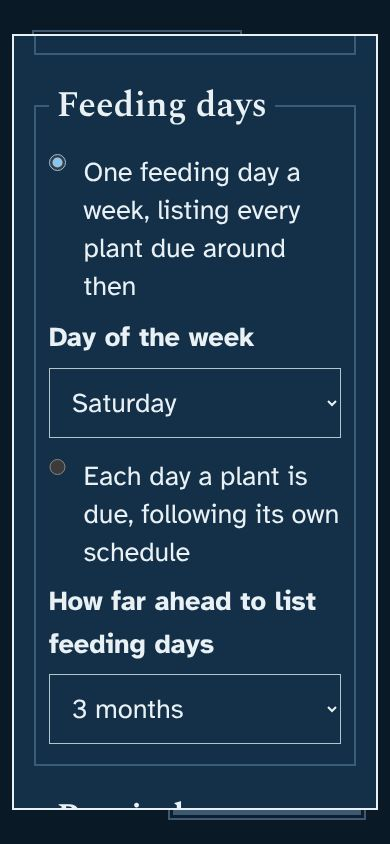
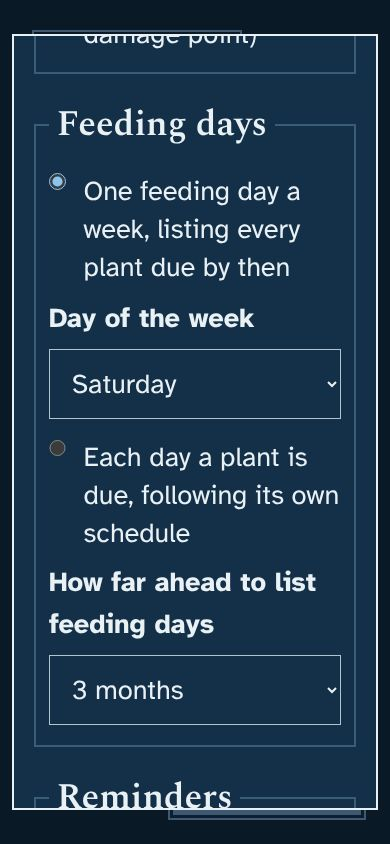
Calendar: never feed early, Tailscale Funnel steps
Ethan's answers on #13: a plant moves to the first feeding day on or after its due
date; Tailscale Funnel for the internet address. Funnel steps (port 8443, /cal only)
in the window and the README; the subscription route accepts a kept /cal prefix.

Claude-Session: https://claude.ai/code/session_01HZWbYYYdhbgvDC6a8qvXWb

diff --git a/app/static/app.js b/app/static/app.js
@@ -3759,7 +3759,7 @@ function icsPaintLink() {
   const l = document.getElementById('ics-link'); if (l) l.value = icsLink();
   const w = document.getElementById('ics-linkwhere');
   if (w) w.textContent = ICS.links && ICS.links.public ? 'This link uses the internet address below, so calendar services such as Google and Outlook.com can reach it.'
-    : 'This link only works on your home network until the internet address below is filled in. Google Calendar, Outlook.com and iCloud need that address.';
+    : 'This link only works on your home network until the internet address below is filled in. Google Calendar, Outlook.com and iCloud need that address: see "Get an internet address with Tailscale Funnel" below.';
 }
 const ck = (k) => ICS.o[k] ? raw('checked') : '';
 function icsForm() {
@@ -3772,7 +3772,7 @@ function icsForm() {
       <label class="chk"><input type="checkbox" data-act="icsopt" name="close" ${ck('close')}> Include close calls (a night within a few degrees of a plant's damage point)</label>
     </fieldset>
     <fieldset><legend>Feeding days</legend>
-      <label class="chk"><input type="radio" data-act="icsopt" name="weekly" value="1" ${o.weekly ? raw('checked') : ''}> One feeding day a week, listing every plant due around then</label>
+      <label class="chk"><input type="radio" data-act="icsopt" name="weekly" value="1" ${o.weekly ? raw('checked') : ''}> One feeding day a week, listing every plant due by then</label>
       <label class="f ics-sub">Day of the week<select data-act="icsopt" name="day">${ICS.days.map((d, i) => html`<option value="${i}" ${o.day === i ? raw('selected') : ''}>${d}</option>`)}</select></label>
       <label class="chk"><input type="radio" data-act="icsopt" name="weekly" value="0" ${o.weekly ? '' : raw('checked')}> Each day a plant is due, following its own schedule</label>
       <label class="f">How far ahead to list feeding days<select data-act="icsopt" name="months">
@@ -3793,8 +3793,24 @@ function icsForm() {
       <p class="hint" id="ics-linkwhere"></p>
       <div class="row"><button class="btn" type="button" data-act="icscopy">Copy calendar link</button><button class="btn ghost" type="button" data-act="icsnewlink">Make a new link</button></div>
       <p class="hint">Anyone with the link can see your feeding days and cold nights (not the rest of Plant record), so keep it private. Make a new link stops the old one working.</p>
-      <label class="f">Internet address of this PC<input type="url" id="ics-pub" value="${o.public_base}" placeholder="https://my-pc.example.ts.net" spellcheck="false" autocomplete="off"></label>
+      <label class="f">Internet address of this PC<input type="url" id="ics-pub" value="${o.public_base}" placeholder="https://your-pc.tail1234.ts.net:8443" spellcheck="false" autocomplete="off"></label>
       <p><button class="btn small ghost" type="button" data-act="icspub">Save address</button></p>
+      <details class="ics-how"><summary>Get an internet address with Tailscale Funnel</summary>
+        <p>Funnel lets the internet reach the calendar link only, not the rest of Plant record. It uses port 8443, so anything you already share in your tailnet with Tailscale Serve stays private.</p>
+        <ol><li>Open a terminal on the PC that runs Plant record and turn on Funnel for the calendar. The command is the same in Windows cmd.exe, PowerShell and bash:
+            <pre class="ics-cmd">tailscale funnel --bg --https=8443 --set-path=/cal http://127.0.0.1:8080/cal</pre>
+            If Tailscale says Funnel or HTTPS is not turned on for your tailnet, open the link it shows, turn it on, and run the command again.
+            If Windows says tailscale is not recognized, use the full path. In cmd.exe:
+            <pre class="ics-cmd">"C:\\Program Files\\Tailscale\\tailscale.exe" funnel --bg --https=8443 --set-path=/cal http://127.0.0.1:8080/cal</pre>
+            In PowerShell:
+            <pre class="ics-cmd">&amp; "C:\\Program Files\\Tailscale\\tailscale.exe" funnel --bg --https=8443 --set-path=/cal http://127.0.0.1:8080/cal</pre></li>
+          <li>See the address it made:
+            <pre class="ics-cmd">tailscale funnel status</pre>
+            It looks like https://your-pc.tail1234.ts.net:8443. Type that into "Internet address of this PC" above and press Save address.</li>
+          <li>Check it: on your phone, turn Wi-Fi off and open the calendar link in the browser. It should show or download a calendar file.</li>
+          <li>Subscribe with that link in each calendar (steps below).</li></ol>
+        <p>Funnel keeps running after a restart. To turn it off:</p>
+        <pre class="ics-cmd">tailscale funnel --https=8443 --set-path=/cal off</pre></details>
       <details class="ics-how"><summary>How to subscribe in each calendar</summary>
         <ul><li><b>Google Calendar</b> (also shows in Samsung Calendar when your Google account syncs to it): on a computer, open calendar.google.com, press the plus next to "Other calendars", choose From URL, paste the link and press Add calendar.</li>
           <li><b>Apple Calendar on iPhone:</b> Settings, Apps, Calendar, Calendar Accounts, Add Account, Other, Add Subscribed Calendar, then paste the link.</li>

diff --git a/app/static/style.css b/app/static/style.css
@@ -900,3 +900,6 @@ html[data-narrow="1"] dialog.ics-dlg fieldset{padding:.4rem .5rem}
 html[data-narrow="1"] dialog.ics-dlg .ics-sub,html[data-narrow="1"] dialog.ics-dlg .ics-rem .f{margin-left:0;max-width:none}
 html[data-narrow="1"] .ics-prev{padding:.4rem .5rem;border-width:1px}
 html[data-narrow="1"] .ics-list li{grid-template-columns:minmax(0,1fr)}
+.ics-cmd{font-family:ui-monospace,Consolas,monospace;font-size:.9em;background:var(--paper);border:1px solid var(--line);padding:.5rem .7rem;margin:.4rem 0 .6rem;white-space:pre-wrap;overflow-wrap:anywhere;user-select:all}
+.ics-how ol li{margin:.5rem 0}
+html[data-narrow="1"] .ics-how ol{padding-left:1.4rem} html[data-narrow="1"] .ics-cmd{padding:.4rem .5rem}

diff --git a/app/server.py b/app/server.py
@@ -3252,17 +3252,16 @@ def ics_season_start(r, d):
 def ics_feed_days(c, today, end, weekday=None):
     """Projected feeding days per plant, the same way the Fertilizer page works out "Next feeding" (nextDue() in app.js),
     then every "Feed every (days)" after that, skipping the resting months. Later dates assume each feeding is done on time.
-    With a weekday (0 = Monday), each feeding moves to the nearest feeding day of the week (never one already past), and
-    the next one is counted from that day, since that is when the plant will be fed."""
+    With a weekday (0 = Monday), each feeding moves to the first feeding day of the week on or after the day it is due
+    (never earlier: Ethan asked that a plant is never fed too early), and the next one is counted from that day, since that
+    is when the plant will be fed."""
     last = dict(c.execute('SELECT plant_code, MAX(applied_on) FROM fertilizer_log GROUP BY plant_code').fetchall())
     rows = c.execute("""SELECT code, common_name, fert_from_month, fert_to_month, fert_every_days, site FROM plants WHERE status='active'
                         AND fert_from_month IS NOT NULL AND fert_to_month IS NOT NULL AND fert_every_days IS NOT NULL ORDER BY code""").fetchall()
     first = today + timedelta(days=(weekday - today.weekday()) % 7) if weekday is not None else today
     def snap(d):
         if weekday is None: return d
-        back = d - timedelta(days=(d.weekday() - weekday) % 7)                  # the feeding day on or before d
-        s = back if (d - back).days < 4 else back + timedelta(days=7)          # the nearest one; 3.5 days either way
-        return max(s, first)
+        return max(d + timedelta(days=(weekday - d.weekday()) % 7), first)    # the feeding day on or after d
     days = {}
     for r in rows:
         every = max(1, int(r['fert_every_days']))
@@ -3294,8 +3293,8 @@ def ics_clean(o):
             if not re.match(r'^([01]\d|2[0-3]):[0-5]\d$', str(v)): abort(400, 'Reminder times look like 08:00 or 16:30')
             out[k] = str(v)
         elif k == 'public_base':
-            v = str(v or '').strip().rstrip('/')
-            if v and not re.match(r'^https?://[A-Za-z0-9.\-]+(:\d+)?(/[\w.\-/]*)?$', v): abort(400, 'The internet address should look like https://my-pc.example.ts.net')
+            v = re.sub(r'/cal$', '', str(v or '').strip().rstrip('/'))          # a pasted link with /cal on the end still works
+            if v and not re.match(r'^https?://[A-Za-z0-9.\-]+(:\d+)?(/[\w.\-/]*)?$', v): abort(400, 'The internet address should look like https://your-pc.tail1234.ts.net:8443')
             out[k] = v
     return out
 
@@ -3337,7 +3336,7 @@ def ics_events(c, o):
             title = (f'Feeding day: {n} plant{"s" if n != 1 else ""} ({names})' if weekly
                      else f'Feed {n} plant{"s" if n != 1 else ""}: {names}')
             lines = [f'{p["name"]} ({p["code"]}), every {p["every"]} days.' + (f' Last fed {p["last"]}.' if p['last'] else ' No feeding logged yet.') for p in ps]
-            desc = (('Your weekly feeding day. These plants are due around now' if weekly else 'Plants due for fertilizer on this day') + ', from Plant record.\n\n' + '\n'.join(lines) +
+            desc = (('Your weekly feeding day. These plants are due by now' if weekly else 'Plants due for fertilizer on this day') + ', from Plant record.\n\n' + '\n'.join(lines) +
                     '\n\nOpen the Fertilizer page that morning before you feed: it says "Hold off" when a cold night is coming or a plant is unwell.'
                     ' Later dates assume each feeding is done on the day shown.')
             ev.append({'kind': 'feed', 'uid': f'feed-{f["date"]}', 'date': f['date'], 'title': title, 'desc': desc,
@@ -3386,7 +3385,7 @@ def ics_body(c, o, E, base):
                     'TRANSP:TRANSPARENT', 'CATEGORIES:Plants,Feeding']
         else:
             out += ['DTSTART:' + e['start'], 'DTEND:' + e['end'], 'TRANSP:TRANSPARENT', 'CATEGORIES:Plants,Cold night']
-        out += ['SUMMARY:' + ics_text(e['title']), 'DESCRIPTION:' + ics_text(e['desc'] + '\n\n' + base + e['path']), 'URL:' + base + e['path']]
+        out += ['SUMMARY:' + ics_text(e['title']), 'DESCRIPTION:' + ics_text(e['desc'] + ('\n\n' + base + e['path'] if base else ''))] + (['URL:' + base + e['path']] if base else [])
         trig = None
         if e['kind'] == 'feed' and o['feed_remind']:
             trig = f'TRIGGER;RELATED=START:PT{fh}H{fm}M'                     # that time on the feeding day
@@ -3445,14 +3444,21 @@ def calendar_ics():
     body = ics_body(c, o, E, request.host_url.rstrip('/') + '/')
     return ics_response(body, None if request.args.get('download') == '0' else f'plant-record-calendar-{E["today"]}.ics')
 
-@app.route('/cal/<tok>.ics')
-def calendar_subscribed(tok):
-    """The subscribed calendar. No password (guard() lets /cal/ through), so the private token is the only key."""
+@app.route('/cal/<path:p>')
+def calendar_subscribed(p):
+    """The subscribed calendar. No password (guard() lets /cal/ through), so the private token is the only key.
+    Only the last part of the path counts (<token>.ics), so it works the same behind a proxy that adds or keeps a
+    /cal prefix, such as Tailscale Funnel with --set-path=/cal."""
     c = db()
-    if not hmac.compare_digest(tok.encode(), ics_token(c).encode()): abort(404)
+    name = p.rsplit('/', 1)[-1]
+    if not name.endswith('.ics') or not hmac.compare_digest(name[:-4].encode(), ics_token(c).encode()): abort(404)
     o = ics_saved(c)
     E = ics_events(c, o)
-    base = (o['public_base'] if o['public_base'] and not request.host.startswith(('127.0.0.1', 'localhost')) else request.host_url.rstrip('/')) + '/'
+    # links in the events go to the app itself, which the public address does not open (it only shares /cal/):
+    # use the address set for labels, or the one this request came in on unless that is the public one
+    pub = urlparse(o['public_base']).hostname if o['public_base'] else None
+    base = setting(c, 'base_url', '') or ('' if pub and request.host.split(':')[0] == pub else request.host_url.rstrip('/'))
+    base = base + '/' if base else ''
     return ics_response(ics_body(c, o, E, base))
 
 # ---------------------------------------------------------------- backups

diff --git a/dev/test/calendar_check.py b/dev/test/calendar_check.py
@@ -35,6 +35,10 @@ check(all(e['title'].startswith('Feeding day: ') for e in D['events'] if e['kind
 check(D['counts']['cold'] > 0, f"{D['counts']['cold']} cold nights in the forecast")
 Dd = json.loads(get('/api/calendar?weekly=0')[0])
 check(len({date.fromisoformat(e['date']).weekday() for e in Dd['events'] if e['kind'] == 'feed'}) >= 1 and any(e['title'].startswith('Feed ') for e in Dd['events']), 'weekly=0: each plant on its own due day')
+first = lambda E: {c: min(e['date'] for e in E['events'] if e['kind'] == 'feed' and c in e['plants']) for e in E['events'] if e['kind'] == 'feed' for c in e['plants']}
+fw, fd = first(D), first(Dd)
+check(all(fw[c] >= fd[c] for c in fw if c in fd), 'weekly: no plant is fed before it is due')
+check(all((date.fromisoformat(fw[c]) - date.fromisoformat(max(fd[c], D['today']))).days < 7 for c in fw if c in fd), 'weekly: and no more than 6 days after')
 Dw = json.loads(get('/api/calendar?day=2')[0])
 check(all(date.fromisoformat(e['date']).weekday() == 2 for e in Dw['events'] if e['kind'] == 'feed'), 'day=2: every feeding day is a Wednesday')
 body, hd = get('/api/calendar.ics?months=3')
@@ -70,12 +74,13 @@ except urllib.error.HTTPError as e: check(e.code == 400, 'a bad internet address
 link = D['links']['local']; tok = link.rsplit('/', 1)[1]
 check(status('/cal/' + tok) == 200, 'the subscription link works')
 check(status('/cal/wrong-token.ics') == 404, 'a wrong token gets nothing')
+check(status('/cal/cal/' + tok) == 200 and status('/cal/' + tok[:-4]) == 404, 'works behind a proxy that keeps /cal; needs the .ics name')
 send('PUT', '/api/calendar/settings', {'weekly': False, 'cold': False})
 sub, _ = get('/cal/' + tok)
 check('Cold night' not in sub and 'SUMMARY:Feeding day' not in sub and 'SUMMARY:Feed ' in sub, 'the subscribed calendar follows the saved choices')
 send('PUT', '/api/calendar/settings', DEF)
-S = send('PUT', '/api/calendar/settings', {'public_base': 'https://my-pc.example.ts.net/'})
-check(S['links']['public'] == 'https://my-pc.example.ts.net/cal/' + tok, 'the internet address goes into the link')
+S = send('PUT', '/api/calendar/settings', {'public_base': 'https://my-pc.example.ts.net:8443/cal/'})
+check(S['links']['public'] == 'https://my-pc.example.ts.net:8443/cal/' + tok, 'the internet address goes into the link (a pasted /cal is dropped)')
 N = send('POST', '/api/calendar/new-link')
 check(status('/cal/' + tok) == 404 and status('/cal/' + N['links']['local'].rsplit('/', 1)[1]) == 200, 'a new link replaces the old one')
 send('PUT', '/api/calendar/settings', DEF)
@@ -123,8 +128,11 @@ with sync_playwright() as p:
     check('home network' in pg.locator('#ics-linkwhere').inner_text(), 'says the link only works at home without an internet address')
     pg.fill('#ics-pub', 'https://my-pc.example.ts.net'); pg.click('[data-act=icspub]'); pg.wait_for_timeout(900)
     check(pg.locator('#ics-link').input_value().startswith('https://my-pc.example.ts.net/cal/'), 'saving the internet address changes the link')
-    pg.locator('dialog.ics-dlg details').evaluate('d => d.open = true')
+    pg.locator('dialog.ics-dlg details').evaluate_all('ds => ds.forEach(d => d.open = true)')
     pg.locator('dialog.ics-dlg').screenshot(path=f'{OUT}/calendar-dialog-full-light.png')
+    pre = pg.locator('dialog.ics-dlg pre.ics-cmd').all_inner_texts()
+    check(any(t.startswith('"C:\\Program Files\\Tailscale\\tailscale.exe" funnel') for t in pre), 'the Windows full-path command shows its backslashes')
+    check(any(t.startswith('& "C:') for t in pre), 'the PowerShell command starts with &')
     with pg.expect_download() as dl: pg.click('[data-act=icssave]')
     d = dl.value; path = os.path.join(OUT, '..', 'calendar.ics'); d.save_as(path)
     check(d.suggested_filename.startswith('plant-record-calendar-') and d.suggested_filename.endswith('.ics'), f'downloads {d.suggested_filename}')
@@ -138,7 +146,7 @@ with sync_playwright() as p:
         q.add_init_script("localStorage.setItem('plantdb.display',JSON.stringify({theme:'%s',size:'%s',navopen:'0'}))" % (theme, size))
         q.goto(BASE + '/#/frost'); q.wait_for_timeout(1800)
         q.click('[data-act=icsopen]'); q.wait_for_timeout(1500)
-        q.locator('dialog.ics-dlg details').evaluate('d => d.open = true')
+        q.locator('dialog.ics-dlg details').evaluate_all('ds => ds.forEach(d => d.open = true)')
         sw = q.evaluate('[document.querySelector("dialog.ics-dlg").scrollWidth, document.querySelector("dialog.ics-dlg").clientWidth]')
         check(sw[0] <= sw[1] + 1, f'{theme} {size}%: nothing in the window scrolls sideways ({sw})')
         q.screenshot(path=f'{OUT}/calendar-phone-{theme}.png')

diff --git a/docs/prototypes/calendar-file.md b/docs/prototypes/calendar-file.md
@@ -6,7 +6,7 @@ Plant record knows when each plant is next due for fertilizer and which nights w
 - **Add to your calendar** is a new section at the bottom of the **Today**, **Fertilizer** and **Cold-night checklist** pages. Its button, **Set up your calendar**, opens a window. Every choice in it is saved as soon as you make it.
 - **What to put in it:** feeding days, cold nights, and whether to include close calls (nights within 3°F of a plant's damage point).
 - **Feeding days:**
-  - **One feeding day a week** (the default, as you asked), on the day of the week you choose (Saturday to start with). Each plant goes on the feeding day nearest to when it is due, never one already past. Its next feeding is counted from that day, because that is when you will feed it. The event is called "Feeding day: 7 plants (…)" and its notes list every plant, how often it is fed and when it was last fed.
+  - **One feeding day a week** (the default, as you asked), on the day of the week you choose (Saturday to start with). Each plant goes on the first feeding day on or after the day it is due, so it is never fed early (as you asked); at most it waits six days. Its next feeding is counted from that day, because that is when you will feed it. The event is called "Feeding day: 7 plants (…)" and its notes list every plant, how often it is fed and when it was last fed.
   - **Each day a plant is due:** one event per day, following each plant's own schedule.
   - **How far ahead:** 1, 3, 6 or 12 months.
 - **Cold nights:** one event per night that would hurt a plant that is outside, from 6 in the evening to 8 the next morning, because the low comes just before dawn. It is named for what matters ("Cold night, low 29°F: protect 4 plants"), and the notes list the plants under "Could die", "Damaged" and "Close call".
@@ -18,7 +18,8 @@ Plant record knows when each plant is next due for fertilizer and which nights w
   - Your calendar checks the link now and then: Apple and Outlook every few hours, Google about once a day. It picks up new feeding days, cold nights from the latest forecast, and any change to your choices.
   - Your PC needs to be on for that. While it is off, the calendar keeps what it last saw.
   - The link works without your Plant record password, because calendar services cannot type one. The long private code in it is the key, and it only shows feeding days and cold nights. **Make a new link** stops the old one working.
-  - **Internet address of this PC:** Google Calendar, Outlook.com and iCloud fetch the link from the internet, so your PC needs an internet address that reaches Plant record. Once one is set up, type it here and the link uses it. Until then the link only works on your home network. See the open question below.
+  - **Internet address of this PC:** Google Calendar, Outlook.com and iCloud fetch the link from the internet, so your PC needs an internet address that reaches Plant record. Until one is saved here, the link only works on your home network.
+  - **Get an internet address with Tailscale Funnel** (as you chose) has the steps and commands in the window, and the README has them for cmd.exe, PowerShell and bash. Funnel shares only `/cal/` on port 8443, so the rest of Plant record and anything on port 443 stay private.
   - "How to subscribe in each calendar" has the steps for Google (which Samsung Calendar shows through your Google account), Apple on iPhone and Outlook.
 - **Or save a file:** **Save calendar file** adds the events as they are today, without updates.
 
@@ -29,7 +30,7 @@ The plants and weather in these screenshots come from the test copy with a made-
 |---|---|
 | ![The new section at the bottom of the Today page](calendar-file/1-today-page.jpg) | ![Phone, dark theme: feeding day choices](calendar-file/4-phone-dark-feeding-day.jpg) |
 | ![The choices and the preview](calendar-file/2-choices-and-preview.jpg) | ![Phone, dark theme: reminder times](calendar-file/5-phone-dark-reminders.jpg) |
-| ![Subscribe, or save a file](calendar-file/3-subscribe-or-save.jpg) | |
+| ![Subscribe, Tailscale Funnel steps, or save a file](calendar-file/3-subscribe-funnel-or-save.jpg) | |
 
 ## What it changes in your database
 It adds nothing to your plants. Two new entries go in the settings table: `ics_options` (your choices) and `ics_token` (the private code in the calendar link, made the first time it is needed). Changing a choice or making a new link is written to the audit log. Older versions ignore these entries, so nothing needs upgrading.
@@ -38,20 +39,16 @@ It adds nothing to your plants. Two new entries go in the settings table: `ics_o
 - `server.py`, new block before backups:
   - `GET /api/calendar` gives the preview (JSON) plus `links`.
   - `GET /api/calendar.ics` is the file.
-  - `GET /cal/<token>.ics` is the subscription. `guard()` lets `/cal/` GET/HEAD through without the password; the route compares the token with `hmac.compare_digest` and gives 404 when it is wrong.
+  - `GET /cal/<token>.ics` is the subscription. `guard()` lets `/cal/` GET/HEAD through without the password; the route takes the last part of the path (`<token>.ics`, so `/cal/cal/<token>.ics` behind a proxy works too), compares the token with `hmac.compare_digest` and gives 404 when it is wrong. Event links use the labels' `base_url`, or the request's address unless that is the public one (Funnel only shares `/cal/`), or are left out.
   - `GET/PUT /api/calendar/settings` reads and saves the choices (`ICS_DEFAULTS`, checked by `ics_clean()`), and `POST /api/calendar/new-link` replaces the token.
   - Query arguments with the same names override the saved choices for one request; the tests use this. `place=ID` stands in for `X-Place` on download links.
   - The link's address is the "Internet address" when one is set, otherwise the labels' `base_url` setting, otherwise the address the browser used.
-- `ics_feed_days(c, today, end, weekday)` follows the Fertilizer page's `nextDue()`. With a weekday, it moves each feeding to the nearest feeding day (never before the first upcoming one) and counts the next feeding from there.
+- `ics_feed_days(c, today, end, weekday)` follows the Fertilizer page's `nextDue()`. With a weekday, it moves each feeding to the first feeding day on or after its due date (never early) and counts the next feeding from there.
 - Reminders: feeding days use `TRIGGER;RELATED=START:PT<h>H<m>M` on the all-day event. Cold nights use an absolute `TRIGGER;VALUE=DATE-TIME` on the day before, in the place's time zone.
 - The file follows RFC 5545: CRLF line ends, lines folded at 75 bytes, text escaped, stable UIDs, and `REFRESH-INTERVAL`/`X-PUBLISHED-TTL` of 6 hours.
 - `app.js`, block at the end: a `MutationObserver` on `#app` adds the section, and `icsDialog()` handles the window. Changes are saved with `icsPut()`. `style.css` has its own block at the end.
 - Test: `dev/test/calendar_check.py` covers the file's format and every choice, weekly days, reminder times, the subscription link (wrong token, new link, saved choices), the audit log, the window, the download, and phone width in dark and light.
 
 ## Open questions for you
-1. **How should your PC be reachable from the internet** for Google, Outlook.com and iCloud? Two ways, both free:
-   - **Tailscale Funnel** (my suggestion): install Tailscale on the PC and run one command. It gives a fixed address like `https://ethans-pc.tail1234.ts.net`, and it can share only the calendar part (`/cal/`), not the rest of Plant record. No domain to buy.
-   - **Cloudflare Tunnel:** similar, with an address on a domain you own (about $10 a year).
-
-   Tell me which and I will add the steps and commands (cmd.exe, PowerShell and bash) to the README and the window.
-2. **Is "nearest feeding day" right?** A plant due on a Wednesday moves to the Saturday after it, and one due on a Tuesday moves to the Saturday before. Or would you rather a plant is never fed early (always the next feeding day), or never late?
+1. **The Tailscale command is untested here.** I can't run Tailscale from my sandbox. The calendar link works whether Funnel passes on the `/cal` part of the address or not. Try step 3 in the window (open the link on your phone with Wi-Fi off) and tell me what you see.
+2. **Links in the events** go to Plant record on your home network (the address set for labels, if there is one). Funnel does not share the rest of the app, so they only open at home or over Tailscale. Is that all right?

diff --git a/README.md b/README.md
@@ -417,6 +417,61 @@ Open **Fertilizer** (top menu) for the whole collection, or look at the **Nutrie
   - Each plant's ratio and strength (None needed, Quarter strength, Quarter to half strength, Half strength or Full strength) are on its Edit page, under Nutrients. Claude filled them in for every plant from its fertilizer note (upgrade batch `batchA2`).
 - **Change a plant's season:** Edit this page, Nutrients group: "Feed from month", "Feed through month" (a season like October to April is fine) and "Feed every (days)". The starting values are Claude's guesses from the plant type.
 
+## Your plant calendar (prototype)
+
+Feeding days and cold nights can go into Google, Outlook, Samsung or Apple calendars, with reminders. Open **Today**, **Fertilizer** or the **Cold-night checklist**, go to **Add to your calendar** at the bottom, and press **Set up your calendar**.
+
+- **Choices** (saved as you make them):
+  - feeding days, cold nights and close calls
+  - one feeding day a week on the day you choose, or each day a plant is due. A plant is never moved earlier than it is due.
+  - how far ahead (1 to 12 months)
+  - your own reminder times: one on feeding days, one on the day before a cold night
+- **Subscribe** with the calendar link, so the calendar updates by itself. The link works without your password. Keep it private; **Make a new link** stops the old one working.
+- Google Calendar uses its own reminder settings for subscribed calendars: in Google Calendar's Settings, choose Plant record under "Other calendars" and set its notifications.
+- **Save calendar file** adds the events once instead, without updates.
+
+### Reaching the calendar from the internet with Tailscale Funnel
+
+Google Calendar, Outlook.com and iCloud fetch the link from the internet. Tailscale Funnel lets them reach the calendar link only (the `/cal/` path on port 8443), not the rest of Plant record. Anything you share in your tailnet on port 443 with Tailscale Serve stays private.
+
+1. Turn on Funnel for the calendar, on the PC that runs Plant record. If Tailscale says Funnel or HTTPS is not turned on for your tailnet, open the link it shows, turn it on, and run the command again.
+
+   Windows (cmd.exe):
+
+   ```
+   tailscale funnel --bg --https=8443 --set-path=/cal http://127.0.0.1:8080/cal
+   ```
+
+   Windows (PowerShell):
+
+   ```
+   tailscale funnel --bg --https=8443 --set-path=/cal http://127.0.0.1:8080/cal
+   ```
+
+   macOS / Linux (bash):
+
+   ```
+   tailscale funnel --bg --https=8443 --set-path=/cal http://127.0.0.1:8080/cal
+   ```
+
+   If Windows says `tailscale` is not recognized, use the full path: `"C:\Program Files\Tailscale\tailscale.exe"` in cmd.exe, or `& "C:\Program Files\Tailscale\tailscale.exe"` in PowerShell, followed by the same words from `funnel` on.
+
+2. See the address it made. The command is the same in cmd.exe, PowerShell and bash:
+
+   ```
+   tailscale funnel status
+   ```
+
+   It looks like `https://your-pc.tail1234.ts.net:8443`. Type it into **Internet address of this PC** in the calendar window and press **Save address**. The calendar link then starts with it.
+3. Check it: on your phone, turn Wi-Fi off and open the calendar link in the browser. It should show or download a calendar file.
+4. Subscribe with that link. The window's "How to subscribe in each calendar" has the steps.
+
+Funnel keeps running after a restart. To turn it off (the same in cmd.exe, PowerShell and bash):
+
+```
+tailscale funnel --https=8443 --set-path=/cal off
+```
+
 ## Past days: what the values were on a date
 
 Temperature, Humidity (and air dryness), Light, and Water and soil (soil moisture, root-zone temperature, pH) each have a **Past days** box. Open it, pick the date on the calendar (or use the arrow keys), and you see that day's lowest, average and highest value, how many hours were in range, a chart of the day, and the plant's comfortable range **as it was recorded on that date** (if you changed the range later, both are shown). Each day on the calendar is marked in range, a little out, out of range or danger, and "Fed" where fertilizer was applied. Pick where the readings come from: your sensor, numbers you typed into Current conditions, or the online weather (outdoors, so for plants kept inside it only shows what the weather was). Days before any data was stored are blank; the online weather loads about 3 months back the first time, and more from the Weather page.
